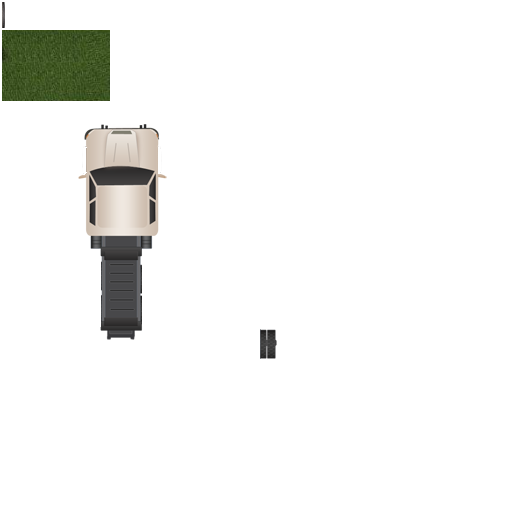
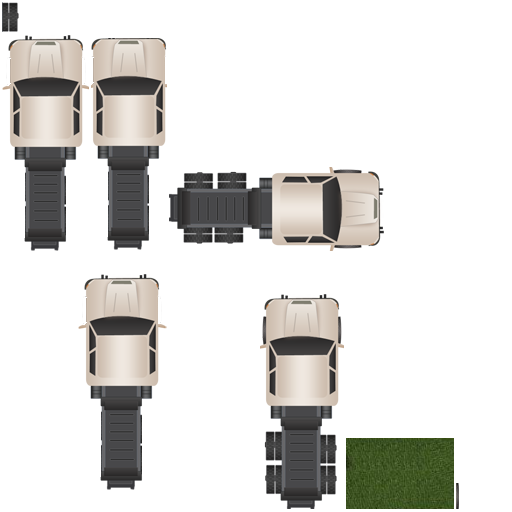
piirto

Changed region(s): [[0.0, 0.0, 0.75, 0.9688], [0.5, 0.5625, 0.9062, 1.0]]

diff --git a/core/src/com/mygdx/game/Ruoho.java b/core/src/com/mygdx/game/Ruoho.java
@@ -3,14 +3,13 @@ package com.mygdx.game;
 import com.badlogic.ashley.core.Entity;
 import com.badlogic.gdx.graphics.g2d.Sprite;
 import com.badlogic.gdx.graphics.g2d.TextureRegion;
+import com.badlogic.gdx.math.MathUtils;
 import com.badlogic.gdx.math.collision.BoundingBox;
 import com.uwsoft.editor.renderer.components.DimensionsComponent;
 import com.uwsoft.editor.renderer.components.PolygonComponent;
 import com.uwsoft.editor.renderer.components.TextureRegionComponent;
 import com.uwsoft.editor.renderer.components.TransformComponent;
 import com.uwsoft.editor.renderer.components.physics.PhysicsBodyComponent;
-import com.uwsoft.editor.renderer.components.sprite.SpriteAnimationComponent;
-import com.uwsoft.editor.renderer.components.sprite.SpriteAnimationStateComponent;
 import com.uwsoft.editor.renderer.physics.PhysicsBodyLoader;
 import com.uwsoft.editor.renderer.scripts.IScript;
 import com.uwsoft.editor.renderer.utils.ComponentRetriever;
@@ -23,13 +22,14 @@ public class Ruoho extends Sprite implements IScript {
 
     public PhysicsBodyComponent physicsBodyComponent;
     Entity entity;
+    float w = 0;
+    float h = 0;
     private TransformComponent transformComponent;
     private DimensionsComponent dimensionsComponent;
     private PolygonComponent polygonComponent;
     private PlayScreen playscreen;
     private float stateTime = 0;
-
-    private  TextureRegionComponent textureRegionComponent;
+    private TextureRegionComponent textureRegionComponent;
 
     public Ruoho(PlayScreen playscreen) {
         this.playscreen = playscreen;
@@ -47,7 +47,10 @@ public class Ruoho extends Sprite implements IScript {
 //        sasComponent = ComponentRetriever.get(entity, SpriteAnimationStateComponent.class);
 //        walkAnimation = sasComponent.currentAnimation;
 
-        textureRegionComponent= ComponentRetriever.get(entity, TextureRegionComponent.class);
+        textureRegionComponent = ComponentRetriever.get(entity, TextureRegionComponent.class);
+        if (textureRegionComponent.polygonSprite != null) {
+            System.out.println("pologyonsrpite!=NUll");
+        }
 
         defineMario();
     }
@@ -70,21 +73,41 @@ public class Ruoho extends Sprite implements IScript {
                         transformComponent);
         physicsBodyComponent.body.setUserData(this);
 
+
+        physicsBodyComponent.body.setAngularDamping(3);
+        physicsBodyComponent.body.setLinearDamping(2f);
+
     }
 
     public void update(float dt) {
-        if (physicsBodyComponent==null) {
+        if (physicsBodyComponent == null) {
             System.out.println("physicsBodyComponent==null");
         }
-        if (physicsBodyComponent.body==null) {
+        if (physicsBodyComponent.body == null) {
             System.out.println("physicsBodyComponent.body==null");
         }
-        BoundingBox boundingBox = PhysicsUtil.calculateBoundingBox(physicsBodyComponent.body);
-        boundingBox.min.scl(MyGdxGame.PPM);
-        boundingBox.max.scl(MyGdxGame.PPM);
-        setBounds(boundingBox.min.x / MyGdxGame.PPM, boundingBox.min.y / MyGdxGame.PPM, (boundingBox.max.x - boundingBox.min.x) / MyGdxGame.PPM,
-                (boundingBox.max.y - boundingBox.min.y) / MyGdxGame.PPM);
-        setOrigin(getX() + getWidth() / 2f, getY() + getHeight() / 2f);
+
+        if (w == 0) {
+            BoundingBox boundingBox = PhysicsUtil.calculateBoundingBox(physicsBodyComponent.body);
+
+            w = (boundingBox.max.x - boundingBox.min.x);
+
+            h = (boundingBox.max.y - boundingBox.min.y);
+        }
+
+
+//        boundingBox.min.scl(MyGdxGame.PPM);
+//        boundingBox.max.scl(MyGdxGame.PPM);
+//        setBounds(boundingBox.min.x , boundingBox.min.y, (boundingBox.max.x - boundingBox.min.x),
+//                (boundingBox.max.y - boundingBox.min.y) );
+
+//        setBounds(physicsBodyComponent.body.getPosition().x,
+//                physicsBodyComponent.body.getPosition().y,
+//                10,10);
+        setBounds(physicsBodyComponent.body.getPosition().x - getWidth() / 2, physicsBodyComponent.body.getPosition().y - getHeight() / 2, w, h);
+        this.setOriginCenter();
+        float deg = physicsBodyComponent.body.getAngle() * MathUtils.radDeg;
+        this.setRotation(deg);
         setRegion(getFrame(dt));
 
     }
@@ -95,5 +118,16 @@ public class Ruoho extends Sprite implements IScript {
         return textureRegionComponent.region;
 
     }
+
+//    public void draw(Batch batch, float delta) {
+//        float deg = physicsBodyComponent.body.getAngle() * MathUtils.radDeg;
+//
+//        TextureRegion keyFrame = getFrame(delta);
+//        batch.draw(keyFrame, getX(), getY(),
+//                getWidth() / 2.0f,
+//                getHeight() / 2.0f, getWidth(), getHeight(),
+//                1f, 1f, deg-90, false);
+//
+//    }
 
 }

diff --git a/core/src/com/mygdx/game/Deer.java b/core/src/com/mygdx/game/Deer.java
@@ -76,15 +76,59 @@ public class Deer extends Sprite implements IScript {
 
     }
 
+    float w=0;
+    float h=0;
+
     public void update(float dt) {
 //        this.setRotation(physicsBodyComponent.body.getAngle());
 
-        BoundingBox boundingBox = PhysicsUtil.calculateBoundingBox(physicsBodyComponent.body);
-        boundingBox.min.scl(MyGdxGame.PPM);
-        boundingBox.max.scl(MyGdxGame.PPM);
-        setBounds(boundingBox.min.x / MyGdxGame.PPM, boundingBox.min.y / MyGdxGame.PPM, (boundingBox.max.x - boundingBox.min.x) / MyGdxGame.PPM,
-                (boundingBox.max.y - boundingBox.min.y) / MyGdxGame.PPM);
-        setOrigin(getX() + getWidth() / 2f, getY() + getHeight() / 2f);
+//        BoundingBox boundingBox = PhysicsUtil.calculateBoundingBox(physicsBodyComponent.body);
+//        boundingBox.min.scl(MyGdxGame.PPM);
+//        boundingBox.max.scl(MyGdxGame.PPM);
+//        setBounds(boundingBox.min.x / MyGdxGame.PPM, boundingBox.min.y / MyGdxGame.PPM, (boundingBox.max.x - boundingBox.min.x) / MyGdxGame.PPM,
+//                (boundingBox.max.y - boundingBox.min.y) / MyGdxGame.PPM);
+        /*
+//        if (w==0)
+            w=(boundingBox.max.x - boundingBox.min.x);
+//
+//        if (h==0)
+            h=(boundingBox.max.y - boundingBox.min.y);
+//
+//
+
+//        setBounds(this.physicsBodyComponent.body.getPosition().x ,this.physicsBodyComponent.body.getPosition().y , w ,h);
+        setBounds(boundingBox.min.x , boundingBox.min.y , w ,h);
+
+
+        */
+
+        if (w == 0) {
+            BoundingBox boundingBox = PhysicsUtil.calculateBoundingBox(physicsBodyComponent.body);
+
+            w = (boundingBox.max.x - boundingBox.min.x);
+
+            h = (boundingBox.max.y - boundingBox.min.y);
+        }
+        setBounds(physicsBodyComponent.body.getPosition().x - getWidth() / 2, physicsBodyComponent.body.getPosition().y - getHeight() / 2, w, h);
+        this.setOriginCenter();
+        float deg = physicsBodyComponent.body.getAngle() * MathUtils.radDeg;
+        this.setRotation(deg);
+
+
+//        setOrigin(getX() + getWidth() / 2f, getY() + getHeight() / 2f);
+
+
+//        this.setX(boundingBox.min.x / MyGdxGame.PPM);
+//        this.setY(boundingBox.min.y / MyGdxGame.PPM);
+//        this.setSize(13,13);
+
+//        setBounds(boundingBox.min.x / MyGdxGame.PPM, boundingBox.min.y / MyGdxGame.PPM,13,13);
+
+//        System.out.println("leveys="+this.getWidth());
+//        System.out.println("korkeus="+this.getHeight());
+
+
+//        this.setOriginCenter();
         setRegion(getFrame(dt));
 //System.out.println("angle="+ physicsBodyComponent.body.getAngle() );
 
@@ -101,15 +145,21 @@ public class Deer extends Sprite implements IScript {
         return region;
     }
 
-    public void draw(Batch batch, float delta) {
-        float deg = physicsBodyComponent.body.getAngle() * MathUtils.radDeg;
-        TextureRegion keyFrame = getFrame(delta);
-        batch.draw(keyFrame, getX(), getY(),
-                getWidth() / 2.0f,
-                getHeight() / 2.0f, getWidth(), getHeight(),
-                1f, 1f, deg - 90, false);
-
-//        physicsBodyComponent.body.setFixedRotation(true);
-    }
+//    public void draw(Batch batch, float delta) {
+//        float deg = physicsBodyComponent.body.getAngle() * MathUtils.radDeg;
+//        TextureRegion keyFrame = getFrame(delta);
+////        System.out.println("keyFrame.getRegionWidth()="+keyFrame.getRegionWidth());
+////        System.out.println("keyFrame.getRegionWidth()="+keyFrame.getRegionHeight());
+////        System.out.println("getWidth="+getWidth());
+////        System.out.println("getHeight()="+getHeight());
+//
+//
+//        batch.draw(keyFrame, getX(), getY(),
+//                getWidth() / 2.0f,
+//                getHeight() / 2.0f, getWidth(), getHeight(),
+//                1f, 1f, deg-90 , false);
+//
+////        physicsBodyComponent.body.setFixedRotation(true);
+//    }
 
 }

diff --git a/core/src/com/mygdx/game/PlayScreen.java b/core/src/com/mygdx/game/PlayScreen.java
@@ -41,8 +41,12 @@ public class PlayScreen implements Screen {
     private SceneLoader sl;
     private ItemWrapper rootItem;
     private Deer deer;
+    private Deer deer2;
+
 
     private Ruoho ruoho;
+    private Ruoho rekka;
+
 
     private List<Ruoho> rekanOsat=new ArrayList<Ruoho>();
 
@@ -101,28 +105,38 @@ public class PlayScreen implements Screen {
         rootItem = new ItemWrapper(sl.getRoot());
         rootItem.getChild("deer").addScript(deer);
 
+        deer2 = new Deer(this);
+        rootItem = new ItemWrapper(sl.getRoot());
+        rootItem.getChild("deer2").addScript(deer2);
 
-//        ruoho = new Ruoho(this);
-//        rootItem = new ItemWrapper(sl.getRoot());
-//        rootItem.getChild("ruoho").addScript(ruoho);
 
+        ruoho = new Ruoho(this);
+        rootItem = new ItemWrapper(sl.getRoot());
+        rootItem.getChild("ruoho").addScript(ruoho);
+
+
+        rekka = new Ruoho(this);
+        rootItem = new ItemWrapper(sl.getRoot());
+        rootItem.getChild("rekka").addScript(rekka);
 
 //        Rekka rekka = new Rekka(this);
 //        rootItem = new ItemWrapper(sl.getRoot());
 //        rootItem.getChild("rekka").addScript(rekka);
+        /*
         Entity rekkaentity =
                 rootItem.getChild("rekka").getEntity();
 
         NodeComponent n = ComponentRetriever.get(rekkaentity, NodeComponent.class);
+
         for (Entity e : n.children) {
             Ruoho r = new Ruoho(this);
 
-            ItemWrapper ii = new ItemWrapper(e);
+            ItemWrapper ii = new ItemWrapper();
             IScript iskripti=ii.addScript(r);
             rekanOsat.add((Ruoho)iskripti);
         }
 
-
+*/
     }
 
     public void update(float dt) {
@@ -133,12 +147,16 @@ public class PlayScreen implements Screen {
         //takes 1 step in the physics simulation(60 times per second)
         world.step(1 / 60f, 6, 2);
         deer.update(dt);
-//        ruoho.update(dt);
-        if (rekanOsat!=null) {
-            for (Ruoho r:rekanOsat) {
-                r.update(dt);
-            }
-        }
+        deer2.update(dt);
+
+        ruoho.update(dt);
+        rekka.update(dt);
+
+//        if (rekanOsat!=null) {
+//            for (Ruoho r:rekanOsat) {
+//                r.update(dt);
+//            }
+//        }
 
 
 //        player.update(dt);
@@ -197,12 +215,25 @@ public class PlayScreen implements Screen {
 //        float degree=MathUtils.radDeg(deer.physicsBodyComponent.body.getAngle());
 
 
-//        ruoho.draw(game.batch);
-        for (Ruoho r:rekanOsat) {
-            r.draw(game.batch);
-        }
-        deer.draw(game.batch, delta);
+        ruoho.draw(game.batch);
+//        ruoho.draw(game.batch,delta);
 
+//        rekka.draw(game.batch,delta);
+        rekka.draw(game.batch);
+
+
+//        for (Ruoho r:rekanOsat) {
+//            r.draw(game.batch);
+//        }
+//        deer.draw(game.batch, delta);
+//        deer2.draw(game.batch, delta);
+
+        deer.draw(game.batch);
+        deer2.draw(game.batch);
+
+
+
+//        rekka.draw(game.batch,delta);
 
 //        player.draw(game.batch);
 //        for (Enemy enemy : creator.getEnemies())

diff --git a/core/src/com/mygdx/game/PhysicsUtil.java b/core/src/com/mygdx/game/PhysicsUtil.java
@@ -22,6 +22,7 @@ public abstract class PhysicsUtil {
             case Polygon: {
                 PolygonShape shape = (PolygonShape) fixture.getShape();
 
+
                 Vector2 tmp = new Vector2();
                 shape.getVertex(0, tmp);
                 tmp = fixture.getBody().getWorldPoint(tmp);
